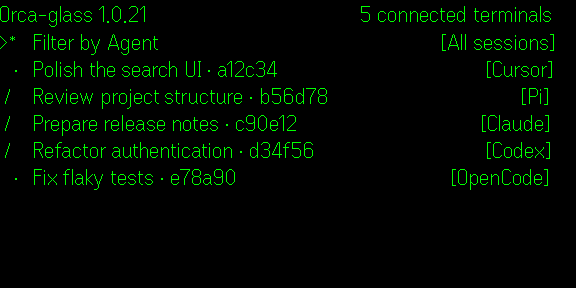
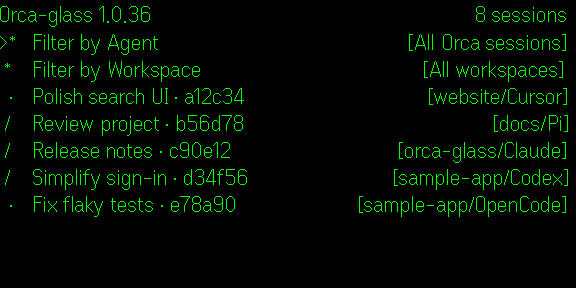
Refresh native 1.0.36 store screenshots and gallery for manual upload
Agent: OpenAI Codex GPT-6

diff --git a/store/gallery.html b/store/gallery.html
@@ -14,45 +14,38 @@ figcaption{margin-top:12px;color:#bcc5be}strong{display:block;color:#f3f5f3;font
 </style>
 </head>
 <body>
-<header><div class="eyebrow">Even Hub profile · version 1.0.21 · 03 November 2026</div>
-<h1>Orca Glass</h1><p>Read your coding sessions. Speak your next step.</p>
-<p class="intro">Six native simulator captures, using fictional Cursor, Pi, Claude, Codex and OpenCode sessions. The reader and voice example is Codex. Each image is 576 × 288 pixels. App rendering is unchanged; exported transparency is displayed on black.</p>
-<a href="description.txt">Exact profile description</a> · <a href="listing.md">Asset details and release preparation</a> · <a href="Orca-Glass-Privacy-and-Terms.pdf">Corrected privacy policy and terms</a>
-<p class="intro">The corrected PDF explains processing on your own PC and accounts, with no collection or sharing of app data by Quiet Signal. It is ready for review; replacement of the portal-generated attachment is still pending.</p></header>
-<section class="profile"><h2>Selected icon — saved to Even Hub</h2>
-<p>The selected 24 × 24 icon is saved in the portal and passes the required 2 × 2 pixel block checks. The icon folder contains only this PNG and its editable GIMP source. No review submission or publication has occurred.</p>
-<div style="display:flex;gap:32px;flex-wrap:wrap">
-<figure><img src="icon/orca-glass-icon.png" style="width:256px;aspect-ratio:1;image-rendering:pixelated" alt="Selected orca icon"><figcaption><a href="icon/orca-glass-icon.xcf">Selected GIMP icon</a> · <a href="icon/orca-glass-icon.png">24 × 24 PNG saved in Even Hub</a></figcaption></figure>
-</div></section>
+<header><div class="eyebrow">Even Hub screenshots · version 1.0.36 · 05 November 2026</div>
+<h1>Orca Glass</h1><p>Read your Orca + Hermes sessions. Speak your next step.</p>
+<p class="intro">Eight native simulator captures using fictional data and the unchanged 1.0.36 app renderer. Each upload PNG is 576 × 288 pixels, composited onto black. No real conversations, credentials, usage or microphone audio appear.</p>
+<a href="description.txt">Current description</a> · <a href="listing.md">Listing status</a>
+<p class="intro">Public 1.0.36 is live. These new screenshots are ready for manual upload. The corrected privacy PDF is still separate from the portal attachment.</p></header>
 <main>
-<figure><a href="screenshots/native/1-threads.png"><img src="screenshots/1-threads.png" alt="Sample Cursor, Pi, Claude, Codex and OpenCode sessions with activity and provider labels"></a><figcaption><strong>01 · Your sessions at a glance</strong>Cursor, Pi, Claude, Codex and OpenCode.</figcaption></figure>
-<figure><a href="screenshots/native/2-answer.png"><img src="screenshots/2-answer.png" alt="Authentication refactor conversation waiting for input"></a><figcaption><strong>02 · Read the conversation</strong>Native text with persistent activity status.</figcaption></figure>
-<figure><a href="screenshots/native/3-reply.png"><img src="screenshots/3-reply.png" alt="Spoken reply shown below the unchanged conversation"></a><figcaption><strong>03 · Review before you send</strong>Voice transcription alongside the conversation.</figcaption></figure>
-<figure><a href="screenshots/native/4-usage.png"><img src="screenshots/4-usage.png" alt="Sample five-hour and weekly Codex usage"></a><figcaption><strong>04 · Check available usage</strong>Illustrative allowance figures and reset times.</figcaption></figure>
-<figure><a href="screenshots/native/5-new-session.png"><img src="screenshots/5-new-session.png" alt="Sample app, website and documentation workspace picker"></a><figcaption><strong>05 · Pick a workspace</strong>Start from an existing Orca workspace.</figcaption></figure>
-<figure><a href="screenshots/native/6-actions.png"><img src="screenshots/6-actions.png" alt="Contextual Refresh sessions, New Session and Usage menu"></a><figcaption><strong>06 · Session actions</strong>Supplemental capture; simulator omits OS entries.</figcaption></figure>
+<figure><a href="screenshots/1-threads.png"><img src="screenshots/1-threads.png" alt="Orca sessions"></a><figcaption><strong>01 · Orca sessions</strong>Workspace/agent labels and activity markers. <a href="screenshots/1-threads.png">Upload PNG</a> · <a href="screenshots/native/1-threads.png">Transparent original</a></figcaption></figure>
+<figure><a href="screenshots/2-answer.png"><img src="screenshots/2-answer.png" alt="Nine-row conversation reader"></a><figcaption><strong>02 · Nine-row conversation reader</strong>Native text, model/status row and page counter. <a href="screenshots/2-answer.png">Upload PNG</a> · <a href="screenshots/native/2-answer.png">Transparent original</a></figcaption></figure>
+<figure><a href="screenshots/3-reply.png"><img src="screenshots/3-reply.png" alt="Full-screen voice review"></a><figcaption><strong>03 · Full-screen voice review</strong>Review the fictional transcript before sending. <a href="screenshots/3-reply.png">Upload PNG</a> · <a href="screenshots/native/3-reply.png">Transparent original</a></figcaption></figure>
+<figure><a href="screenshots/4-usage.png"><img src="screenshots/4-usage.png" alt="Usage and reset times"></a><figcaption><strong>04 · Usage and reset times</strong>Fictional Codex, Claude and Cursor allowances. <a href="screenshots/4-usage.png">Upload PNG</a> · <a href="screenshots/native/4-usage.png">Transparent original</a></figcaption></figure>
+<figure><a href="screenshots/5-workspaces.png"><img src="screenshots/5-workspaces.png" alt="Orca workspace filter"></a><figcaption><strong>05 · Orca workspace filter</strong>Recent workspaces and multiple selection. <a href="screenshots/5-workspaces.png">Upload PNG</a> · <a href="screenshots/native/5-workspaces.png">Transparent original</a></figcaption></figure>
+<figure><a href="screenshots/7-agent-filter.png"><img src="screenshots/7-agent-filter.png" alt="Separate agent filters"></a><figcaption><strong>06 · Separate agent filters</strong>Hermes Agent and the Orca harnesses. <a href="screenshots/7-agent-filter.png">Upload PNG</a> · <a href="screenshots/native/7-agent-filter.png">Transparent original</a></figcaption></figure>
+<figure><a href="screenshots/8-hermes-workspaces.png"><img src="screenshots/8-hermes-workspaces.png" alt="Hermes workspace filter"></a><figcaption><strong>07 · Hermes workspace filter</strong>Bots, Sessions and Scheduled jobs. <a href="screenshots/8-hermes-workspaces.png">Upload PNG</a> · <a href="screenshots/native/8-hermes-workspaces.png">Transparent original</a></figcaption></figure>
+<figure><a href="screenshots/9-hermes-sessions.png"><img src="screenshots/9-hermes-sessions.png" alt="Hermes sessions"></a><figcaption><strong>08 · Hermes sessions</strong>Hermes conversations remain separate from Orca. <a href="screenshots/9-hermes-sessions.png">Upload PNG</a> · <a href="screenshots/native/9-hermes-sessions.png">Transparent original</a></figcaption></figure>
 </main>
-<section class="profile"><h2>Profile description and attribution</h2><!-- profile:start --><pre>Keep up with your coding agents from your G2 glasses.
+<section class="profile"><h2>Profile description and attribution</h2><!-- profile:start --><pre>Read your Orca + Hermes sessions. Speak your next step.
 
-Orca Glass connects to Orca on your Windows PC so you can read a conversation, check whether an agent is working or waiting, and speak your next instruction without returning to the keyboard.
+Orca Glass connects G2 glasses to agents running in Orca on your Windows PC, and to Hermes Agent. Read conversations, see working/waiting status and the model, and review spoken replies before sending.
 
-• Browse connected agent sessions and filter by provider.
-• Read conversation text with native scrolling and live activity status.
-• Hold to speak, release to review the transcription, then click to send or double-click to cancel.
-• Keep the conversation visible while you review a voice reply.
-• Start a Codex session in an existing Orca workspace.
-• Check available usage limits from the session-list menu.
+Version 1.0.36:
+- Filter by agent: Hermes Agent, or All Orca Sessions / Claude / Codex / other Orca agents. Hermes and Orca sessions stay separate.
+- Filter by workspace: Orca shows recent workspaces first, then the rest; Hermes shows Bots, Sessions and Scheduled jobs.
+- Conversations open at the start of the latest reply. Nine rows per page; swipe for pages, swipe down on the last page to refresh. One status row shows state, model and page, e.g. /Waiting Opus5.5 Pg7/8.
+- Hold to open a full-screen voice page that is already listening; release to review, click to send, double-click to cancel. Whisper runs locally on your PC and ignores silence.
+- For numbered prompts, click for choices or speak an option number, then confirm.
+- View Codex, Claude and Cursor usage; toggle resets between computer time, phone time and time remaining.
+- Start Codex in an existing Orca workspace.
 
-Requires G2 glasses, the Even Realities Android app, Orca running on Windows, and the open-source Orca Glass companion bridge on your PC. The Windows bridge source and setup notes are available on GitHub below. Voice transcription runs locally on your PC using Whisper. English only.
+Requires G2, the Even Realities Android app, Orca and the companion Windows bridge. The packaged connection targets a configured private PC over Tailscale; arbitrary-PC setup is not yet self-service. Agents run on your PC, not the glasses. English only. Try the demo without a PC.
 
-Codex is the primary supported workflow. Other connected agents can appear in the session list; conversation support depends on their terminal format. This app controls agents running on your PC; it does not run a coding agent on the glasses.
-
-Try the built-in demo to explore sample sessions without a PC connection.
-
-The current build uses a private Tailscale connection and requires access to the configured PC. It is not yet a self-service setup for arbitrary PCs.
-
-Windows bridge source and setup: https://github.com/eugene8080/orca-glass/tree/windows-android-codex
-Independent Windows/Android fork of Orca Glass by 2ero20ne, used under the MIT License.
-Original project: https://github.com/2ero20ne/orca-glass</pre><!-- profile:end --></section>
-<footer>Click an image for its untouched RGBA export. Simulator captures, not G2 photographs. Current distribution is a personal beta; public publication has not been submitted.</footer>
+Source/setup: https://github.com/eugene8080/orca-glass/tree/windows-android-codex
+Independent Windows/Android fork of 2ero20ne&#x27;s Orca Glass under MIT.
+Original: https://github.com/2ero20ne/orca-glass</pre><!-- profile:end --></section>
+<footer>Upload the opaque PNGs linked above. Native originals preserve the simulator alpha channel; screenshots/native is for source captures, not ordinary image previews. Simulator captures, not G2 photographs. The existing 6-actions capture is supplemental because the simulator omits system contextual-menu entries.</footer>
 </body></html>

diff --git a/store/listing.md b/store/listing.md
@@ -3,6 +3,18 @@ Updated: 2026-11-05
 
 ## Current status
 
+2026-11-05 screenshot refresh: dedicated Eugene Chrome now confirms **public1.0.36
+is Live** (no longer awaiting release review). Preserved the newer portal wording
+"Orca + Hermes" in store/description.txt. Captured eight fresh native1.0.36 images
+with fictional data; app tree unchanged from release d352cbf. All576x288 RGB upload
+images verified pixel-identical to native RGBA composited on black. The previously
+solid-green-looking captures are alpha-channel exports, not a screenshot failure.
+Gallery refreshed. User explicitly takes over uploads; NEW SCREENSHOTS NOT SAVED
+TO PORTAL by agent. Preview editor was opened and old images removed only in its
+unsaved dialog; later Escape cancels that edit. User should replace the old set
+with the eight files linked below. No Confirm/review submission/channel/bridge/app
+change. Native store preview8792/9899 remains OPEN in named Orca tabs.
+
 2026-11-05 later update: Eugene reports he submitted the release. Fresh read-only
 portal inspection confirms candidate **v1.0.36 — In review**, **Review in progress**,
 **Submitted**, and **Awaiting review**. Public remains1.0.23; this is submission,
@@ -123,42 +135,35 @@ Name, tagline and description saved through the authenticated Even Hub CLI on 20
 
 The description and README credit the original author and link the upstream project. Root `LICENSE` retains `Copyright (c) 2026 2ero20ne` and the full MIT text. `app/vite.config.ts` now emits `LICENSE.txt` and `ATTRIBUTION.txt` in production builds; the built license was checked byte-for-byte against the original. This packaging change is not yet in beta1.0.21; include it in the next release candidate.
 
-## Screenshots
+## Screenshots — 1.0.36
 
-Official native simulator captures using the unchanged 1.0.21 app renderer and fictional data. The list includes Cursor, Pi, Claude, Codex and OpenCode at the user's request; the reader/voice example is Codex. List discovery does not establish reader compatibility for every provider. All glasses images are 576 × 288. No real conversations, credentials, account usage or microphone audio appear. These are simulator captures, not G2 photographs.
+Eight current upload files, using the real native app renderer and fictional data.
+No real chats, account usage, credentials or microphone audio. Not G2 photographs.
 
-| Order | Image | Content |
-| --- | --- | --- |
-| 1 | [Sessions](screenshots/1-threads.png) | Names, activity, provider labels and filter |
-| 2 | [Conversation](screenshots/2-answer.png) | Native reader and waiting status |
-| 3 | [Voice review](screenshots/3-reply.png) | Transcription below the preserved conversation |
-| 4 | [Usage](screenshots/4-usage.png) | Example allowance usage |
-| 5 | [New session](screenshots/5-new-session.png) | Workspace picker |
-| 6 | [Actions](screenshots/6-actions.png) | Refresh sessions, New Session and Usage |
+| Order | Upload PNG |
+| --- | --- |
+| 1 | [Orca session list](screenshots/1-threads.png) |
+| 2 | [Nine-row reader](screenshots/2-answer.png) |
+| 3 | [Full-screen voice review](screenshots/3-reply.png) |
+| 4 | [Codex/Claude/Cursor usage](screenshots/4-usage.png) |
+| 5 | [Orca workspace filter](screenshots/5-workspaces.png) |
+| 6 | [Separate agent filter](screenshots/7-agent-filter.png) |
+| 7 | [Hermes workspace groups](screenshots/8-hermes-workspaces.png) |
+| 8 | [Hermes session list](screenshots/9-hermes-sessions.png) |
 
-Untouched RGBA exports are in [screenshots/native](screenshots/native). The linked RGB copies composite the same pixels onto black for ordinary image viewers. No text, layout or content was retouched. The simulator omits OS contextual entries; image 6 is supplemental and does not represent the complete hardware menu.
-
-Open [the gallery](gallery.html) to review. `store/works-eyecatch.png` and `store/screenshots/phone-setup.png` are historical upstream assets, excluded from this release set.
+Upload the opaque RGB PNGs in store/screenshots, not the transparent files in
+store/screenshots/native. Original RGBA captures are retained unchanged; the upload
+copies only composite alpha onto black. Supplemental6-actions is not one of these
+eight: the simulator omits G2 system contextual entries. Gallery: [review](gallery.html).
+User performs portal upload; confirmation of the persisted new set remains pending.
 
 ## Capture again
 
-Use named PowerShell terminals in this repo's Orca workspace; reuse or close confirmed old preview processes first.
-
-1. Run `node scripts/store-preview.mjs` (loopback 8792).
-2. Run `app/node_modules/@evenrealities/sim-win32-x64/bin/evenhub-simulator.exe` with URL `http://127.0.0.1:8792/?code=demo&lang=en` and `--automation-port 9899`.
-3. Starting at the fresh session list, run:
-
-```powershell
-node scripts/store-capture.mjs 1-threads
-node scripts/store-capture.mjs 2-answer down down down down click
-node scripts/store-capture.mjs 3-reply long_press long_press_release
-node scripts/store-capture.mjs 6-actions double_click double_click context_menu
-node scripts/store-capture.mjs 4-usage down down click
-node scripts/store-capture.mjs 5-new-session double_click context_menu down click
-python scripts/store-previews.py
-```
-
-The Python step requires Pillow. Verify each image visually. The fixture replaces data and microphone capture only; native rendering/gestures use the real app and SDK. Send and Launch are disabled. Leave the simulator open for review.
+Run scripts/store-preview.mjs in a named Orca pwsh terminal (8792), then the native
+simulator on9899 against http://127.0.0.1:8792/?code=demo&lang=en. The real app is
+unchanged; fixture replaces API/audio only and disables Send/Launch. Use
+scripts/store-capture.mjs with names above, then python scripts/store-previews.py
+to composite alpha. Inspect every image. Existing named store preview is left OPEN.
 
 ## Public release preparation
 

diff --git a/TODOS.md b/TODOS.md
@@ -47,13 +47,12 @@ Completed/superseded release notes: [history](docs/todo-history.md).
   in main .local/hermes-merged-preview. Physical reading and a real user-confirmed
   Hermes reply remain unverified; no autonomous live prompt/resume/reply sent.
   See [implementation](docs/hermes-bridge.md) and [review](docs/hermes-pr-review.md).
-- [ ] **General installation / public listing — awaiting Even Hub review:**
- 2026-11-05 Eugene submitted1.0.36. Portal independently confirms In review,
-  Submitted and Awaiting review. Public remains1.0.23; approval/publication pending.
-  Exact1,630-character description saved/verified, private-PC/Tailscale limitation
-  retained; arbitrary-PC self-service remains open. Privacy attachment was last
-  inspected as the generated PDF; no replacement or reinspection in this status
-  check. No app/bridge/beta changes or messages. See [listing status](store/listing.md).
+- [ ] **Public listing screenshots — user uploading:** 2026-11-05 portal confirms
+  public1.0.36 Live. Eight fresh native1.0.36 screenshots, fictional data, are ready
+  in store/screenshots; gallery/listing updated. User takes over portal upload;
+  new set not saved by agent. Await persisted screenshot confirmation. Private-PC
+  limitation remains, self-service setup and generated-policy issues remain open.
+  See [listing status](store/listing.md).
 - [ ] **Monitor native popup request:** [GitHub #44](https://github.com/even-realities/everything-evenhub/issues/44)
   and [Discord thread](https://discord.com/channels/1301124787740868620/1484753075590664332/threads/1567124600658202754).
   Await maintainer response/API guidance. Primary use case: hold-to-talk with more

diff --git a/CLAUDE.md b/CLAUDE.md
@@ -50,6 +50,20 @@ do not fall back to pscapital.com.hk because it has an existing logged-in tab.
 
 ## Current work
 
+2026-11-05 user requests fresh1.0.36 screenshots/listing check, then takes over
+manual uploads. Portal in Eugene Chrome confirms public1.0.36 LIVE; newer portal
+"Orca + Hermes" description preserved/synchronized locally. Captured eight real
+native renderer images with fictional data; app tree identical to releasedd352cbf.
+Capture exports store green in RGB and text in alpha; composite onto black for
+viewable uploads. Eight576x288 RGB images visually inspected and pixel-verified
+against source RGBA. New store fixture8792 and simulator9899 in named Orca tabs
+(term_bb340eb4-486a-4bbe-8273-3cbb3af71c85 / term_8a6a2f1a-c915-47b3-bd1a-4d5871088067)
+LEFT OPEN. Gallery/listing updated. User uploads files in store/screenshots, not
+native. No new screenshot set SAVED to portal by agent. Preview removals were
+unsaved; Escape subsequently cancels. Do not claim portal assets updated until
+user confirms or rechecked. No review submission/channel/app/bridge change or
+real provider input. Generated-policy findings remain unresolved.
+
 2026-11-05 user answered AMC questions in Telegram and asks to build answering from the
 glasses. Open single-select Hermes question is now the reader choice menu (bridge only):
 clarify.respond with the exact choice text, only if gateway prompt id still matches;
